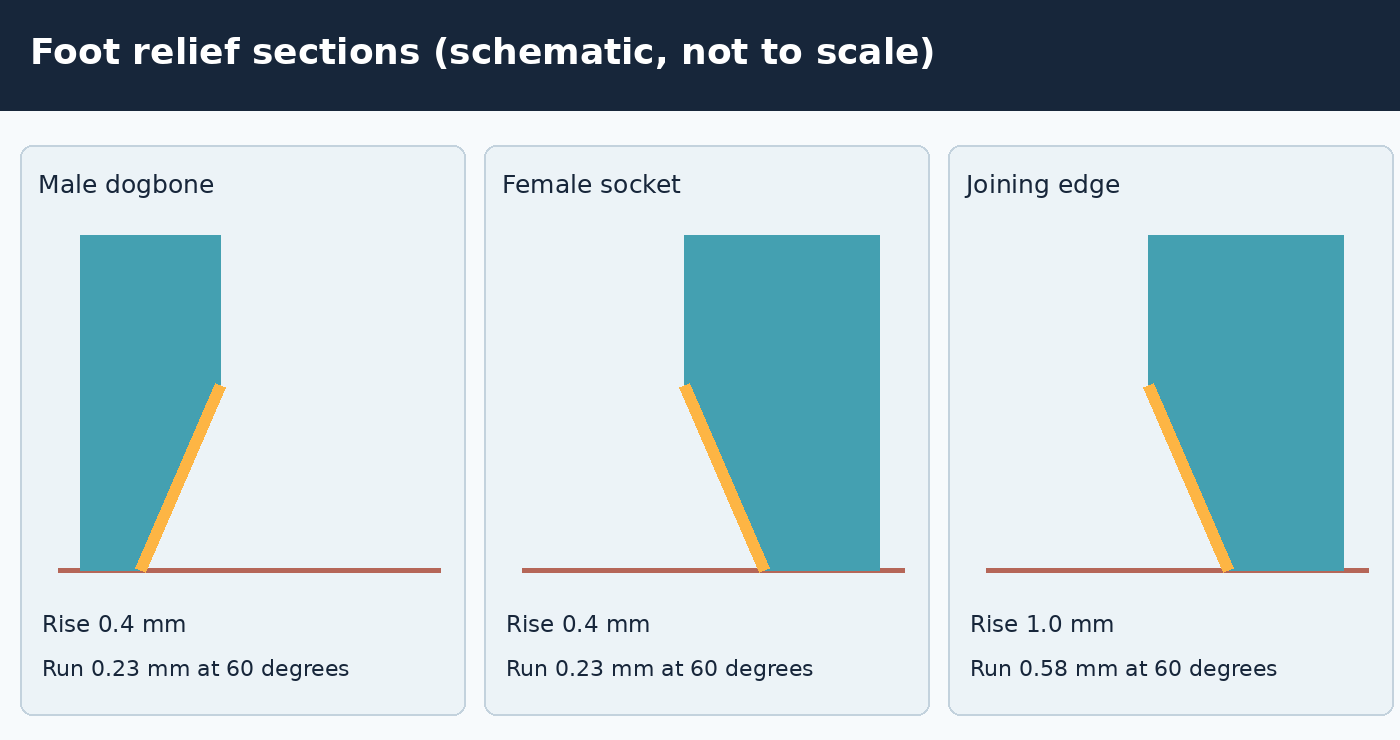
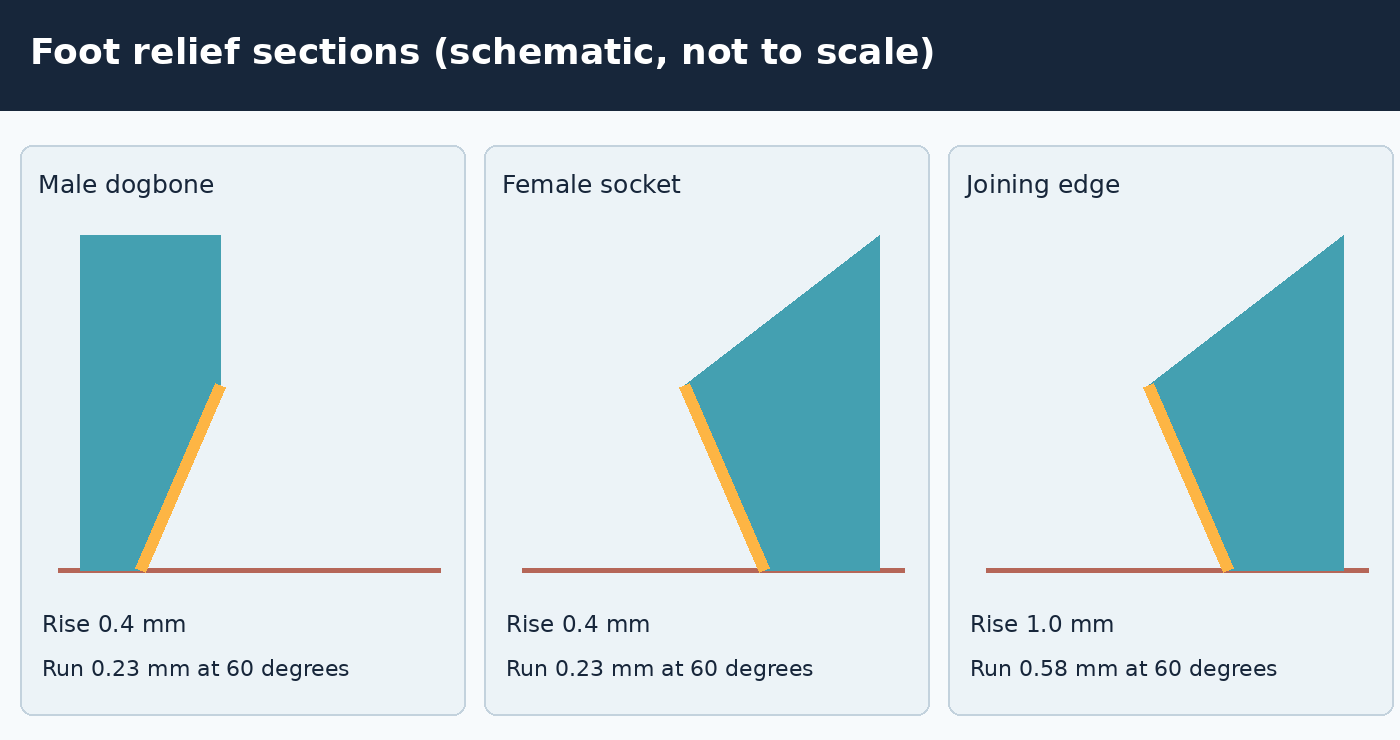
Docs: adopt paired Rocket Stove-style CAD gallery
Replace numbered screenshot cards with semantic OpenSCAD images in technical Markdown tables; remove misleading exterior-wall panel and regenerate camera-framed v12 inspection views. Preserve v12 SCAD and preset geometry.

Changed region(s): [[0.7986, 0.3108, 0.9521, 0.5284], [0.4914, 0.3108, 0.645, 0.5284]]

diff --git a/scripts/chamfer_docs.py b/scripts/chamfer_docs.py
@@ -1,7 +1,7 @@
-"""Generate v12 build-plate-interface reference screenshots from the real SCAD geometry.
+"""Render magnified OpenSCAD geometry close-ups for the v12 README.
 
-These are isolated CAD coupons, not photographs and not full-size trays.
-The model's dogbone, socket, and chamfer modules are used unchanged.
+Images contain geometry only; Markdown tables supply titles and parameters.
+CAD coupons shorten surrounding stock but reuse production connector/socket cutters.
 """
 from __future__ import annotations
 
@@ -19,7 +19,7 @@ from scripts.organizer_cli import release_paths
 
 MARKER = "// ----------- Output and non-fatal invalid selection handling -----------"
 APPEND = r"""
-// Only surrounding tray stock is shortened into inspection coupons.
+// Trim stock only. Real socket, dogbone and joining-edge relief modules are reused.
 module inspection_join_cut() {
     rotate([0,0,90]) rotate([90,0,0])
       linear_extrude(height=40,center=true)
@@ -27,115 +27,97 @@ module inspection_join_cut() {
 }
 module inspection_socket_coupon() {
     difference() {
-        translate([-10,0,0]) cube([20,19,10]);
-        socket_with_entry_chamfer_3d();
-        inspection_join_cut();
+        color([0.28,0.64,0.68]) translate([-10,0,0]) cube([20,19,10]);
+        color([0.96,0.72,0.12]) socket_with_entry_chamfer_3d();
+        color([0.96,0.72,0.12]) inspection_join_cut();
     }
 }
 module inspection_socket_section() {
     difference() {
         inspection_socket_coupon();
-        translate([-20,-10,-1]) cube([20,40,30]);
+        color([0.96,0.72,0.12]) translate([-20,-10,-1]) cube([20,40,30]);
     }
 }
 module inspection_join_edge() {
     difference() {
-        translate([-12,0,0]) cube([24,9,7]);
-        inspection_join_cut();
+        color([0.28,0.64,0.68]) translate([-12,0,0]) cube([24,9,7]);
+        color([0.96,0.72,0.12]) inspection_join_cut();
     }
 }
-module inspection_outer_wall() {
-    rotate([90,0,0]) linear_extrude(height=19,center=true)
-      polygon([[0,0],[9,0],[9,16],[-8,16],[-8,CHAMFER_Z],[-CHAMFER_X,CHAMFER_Z]]);
-}
-Inspection_view="male";
-if(Inspection_view=="male") color([0.9,0.62,0.25]) loose_dogbone();
-else if(Inspection_view=="male_head")
-    translate([0,-HEAD_IN,0]) color([0.9,0.62,0.25]) loose_dogbone();
-else if(Inspection_view=="male_web") color([0.9,0.62,0.25]) loose_dogbone();
-else if(Inspection_view=="socket_bottom")
-    rotate([180,0,0]) color([0.30,0.68,0.83]) inspection_socket_coupon();
-else if(Inspection_view=="socket_lobe")
-    rotate([180,0,0]) translate([0,-HEAD_IN,0])
-        color([0.30,0.68,0.83]) inspection_socket_coupon();
-else if(Inspection_view=="socket_section")
-    rotate([180,0,0]) color([0.30,0.68,0.83]) inspection_socket_section();
-else if(Inspection_view=="join_edge") color([0.30,0.68,0.83]) inspection_join_edge();
-else if(Inspection_view=="outer_wall") color([0.30,0.68,0.83]) inspection_outer_wall();
+// Preview palette: teal for stock / loose connector and gold for volumes
+// removed by the socket or joining-edge chamfer. STL color is unaffected.
+Inspection_view="connector-foot";
+if(Inspection_view=="connector-foot") color([0.28,0.64,0.68]) loose_dogbone();
+else if(Inspection_view=="connector-lobe")
+    translate([0,-HEAD_IN,0]) color([0.28,0.64,0.68]) loose_dogbone();
+else if(Inspection_view=="connector-web") color([0.28,0.64,0.68]) loose_dogbone();
+else if(Inspection_view=="socket-underside")
+    rotate([180,0,0]) inspection_socket_coupon();
+else if(Inspection_view=="socket-lips")
+    rotate([180,0,0]) translate([0,-HEAD_IN,0]) inspection_socket_coupon();
+else if(Inspection_view=="socket-section")
+    rotate([180,0,0]) inspection_socket_section();
+else if(Inspection_view=="joining-edge") inspection_join_edge();
 """
 
-# n, OpenSCAD inspection selector, technical title, description, camera X/Y/Z/distance
+# Stable semantic filenames, not serial numbers. Focal points in CAD mm.
+# For the female pockets the inspection coupon is flipped to expose the
+# underside, hence the negative focal Y/Z coordinates.
 VIEWS = [
-    ("01","male","Loose connector: complete foot","Circular lobes and straight web",(65,0,35,90)),
-    ("02","male_head","Loose connector: round head","Chamfer follows the circular lobe",(40,0,45,90)),
-    ("03","male_web","Loose connector: center web","Chamfer on both narrow straight sides",(20,0,50,90)),
-    ("04","socket_bottom","Socket: underside entrance","Bevel begins at the build-plate face",(30,0,30,90)),
-    ("05","socket_lobe","Socket: lobe and mouth lips","Relief around the curved end and short edges",(12,0,0,90)),
-    ("06","socket_section","Socket: wall section","Entry chamfer below unchanged fitting walls",(25,0,35,90)),
-    ("07","join_edge","Tray: joining edge","Continuous relief across connector mouths",(65,0,35,90)),
-    ("08","outer_wall","Tray: outside lower wall","Drawer floor radius clearance, not elephant foot",(65,0,35,90)),
+    ("connector-foot",    (0,  0,  3, 58,  0, 32, 35)),
+    ("connector-lobe",    (0,  0,  1, 70,  0, 25, 35)),
+    ("connector-web",     (0,  0,  1, 80,  0, 50, 42)),
+    ("socket-underside",  (0, -9, -3, 65,  0, 25, 95)),
+    ("socket-lips",       (0, -5, -1, 55,  0,  0, 75)),
+    ("socket-section",    (0, -7, -3, 62,  0,210, 90)),
+    ("joining-edge",     (0,  4,  2, 62,  0, 42, 85)),
 ]
 
 
-def font(size:int,bold:bool=False):
-    family="DejaVuSans-Bold.ttf" if bold else "DejaVuSans.ttf"
-    return ImageFont.truetype("/usr/share/fonts/truetype/dejavu/"+family,size)
-
-
-def run_preview(source:Path,name:str,camera:tuple[int,int,int,int],output:Path):
-    cmd=["openscad","--hardwarnings","--imgsize=1280,850",
-         "--colorscheme=Tomorrow",
-         "--camera=0,0,0,"+",".join(map(str,camera)),
-         "--autocenter","--viewall","-D","Render_facets=128",
-         "-D",'Inspection_view="'+name+'"',
-         "-o",str(output),str(source)]
+def run_preview(source: Path, name: str, camera: tuple[int, ...], destination: Path) -> None:
+    command = [
+        "openscad", "--hardwarnings", "--imgsize=2200,1500",
+        "--colorscheme=Tomorrow", "--camera="+",".join(map(str,camera)),
+        "-D", "Render_facets=128", "-D", 'Inspection_view="'+name+'"',
+        "-o", str(destination), str(source),
+    ]
     if shutil.which("xvfb-run"):
-        cmd=["xvfb-run","-a",*cmd]
-    proc=subprocess.run(cmd,text=True,capture_output=True,timeout=150)
-    if proc.returncode or not output.exists() or output.stat().st_size<2000:
-        raise RuntimeError(f"OpenSCAD inspection {name} failed:\n{proc.stdout}\n{proc.stderr}")
+        command = ["xvfb-run", "-a", *command]
+    result = subprocess.run(command,capture_output=True,text=True,timeout=150)
+    if result.returncode or "ERROR:" in result.stderr or not destination.is_file():
+        raise RuntimeError(f"OpenSCAD screenshot {name} failed: {result.stdout}\n{result.stderr}")
 
 
-def crop_model(source:Path):
-    img=Image.open(source).convert("RGB")
-    a=np.asarray(img,dtype=np.int16)
-    mask=(a.max(2)-a.min(2)>24)&(a.min(2)<215)
-    yy,xx=np.nonzero(mask)
-    if len(xx)<150:
-        raise RuntimeError(f"Missing CAD geometry: {source.name}")
+def trim_preview(path: Path, *, closeup: bool = False) -> Image.Image:
+    image = Image.open(path).convert("RGB")
+    rgb = np.asarray(image,dtype=np.int16)
+    # Preserve the actual OpenSCAD preview colors and shaded cut surfaces.
+    # This mask selects colored geometry, not pale-gray background pixels.
+    visible = ((rgb.max(axis=2)-rgb.min(axis=2))>20) & (rgb.min(axis=2)<225)
+    yy,xx=np.nonzero(visible)
+    if len(xx)<5000:
+        raise RuntimeError(f"No usable CAD geometry in screenshot {path.name}")
     x0,x1=int(xx.min()),int(xx.max())
     y0,y1=int(yy.min()),int(yy.max())
-    mx=max(15,int((x1-x0)*.05))
-    my=max(15,int((y1-y0)*.05))
-    return img.crop((max(0,x0-mx),max(0,y0-my),
-                     min(img.width,x1+mx+1),min(img.height,y1+my+1)))
+    width,height=image.size
+    if not closeup and (x0<8 or x1>width-9 or y0<8 or y1>height-9):
+        raise RuntimeError(f"Camera cuts off geometry in {path.name}: {(x0,y0,x1,y1)}")
+    if x1-x0<width*0.24 or y1-y0<height*0.20:
+        raise RuntimeError(f"Camera too distant in {path.name}: {(x0,y0,x1,y1)}")
+    margin=max(30,int(max(x1-x0,y1-y0)*.04))
+    rect=(max(0,x0-margin),max(0,y0-margin),
+          min(width,x1+margin+1),min(height,y1+margin+1))
+    return image.crop(rect)
 
 
-def inspection_card(number:str,title:str,description:str,render:Path,metric:str):
-    width,height=1400,975
-    bg=Image.new("RGB",(width,height),(248,250,252))
-    draw=ImageDraw.Draw(bg)
-    navy=(23,38,58)
-    draw.rectangle((0,0,width,135),fill=navy)
-    draw.rounded_rectangle((27,27,104,104),radius=13,fill=(253,181,68))
-    draw.text((45,49),number,font=font(25),fill=navy)
-    draw.text((126,18),title,font=font(36,True),fill="white")
-    draw.text((126,82),description,font=font(24),fill=(186,218,228))
-    draw.rectangle((30,151,width-30,846),fill=(247,247,247),outline=(205,218,227),width=2)
-    im=crop_model(render)
-    scale=min(1290/im.width,675/im.height)
-    im=im.resize((round(im.width*scale),round(im.height*scale)),Image.Resampling.LANCZOS)
-    bg.paste(im,((width-im.width)//2,159+(680-im.height)//2))
-    draw.rectangle((0,865,width,height),fill=(236,243,247))
-    draw.text((35,886),metric,font=font(24),fill=(0,104,117))
-    draw.text((35,934),"OpenSCAD v12  |  dimensions in mm  |  CAD coupon, not a printed sample",
-              font=font(21),fill=(64,78,86))
-    return bg
+def font(size:int,bold:bool=False):
+    name="DejaVuSans-Bold.ttf" if bold else "DejaVuSans.ttf"
+    return ImageFont.truetype("/usr/share/fonts/truetype/dejavu/"+name,size)
 
 
-def schematic(output:Path):
-    im=Image.new("RGB",(1400,740),(247,250,252))
-    d=ImageDraw.Draw(im)
+def schematic(output: Path) -> None:
+    image=Image.new("RGB",(1400,740),(247,250,252))
+    d=ImageDraw.Draw(image)
     d.rectangle((0,0,1400,110),fill=(23,38,58))
     d.text((30,30),"Foot relief sections (schematic, not to scale)",font=font(36,True),fill="white")
     specs=[("Male dogbone",.4,True),("Female socket",.4,False),("Joining edge",1.0,False)]
@@ -150,47 +132,40 @@ def schematic(output:Path):
             d.polygon([(o-140,y),(o-80,y),(o,y-185),(o,235),(o-140,235)],fill=(68,160,177))
             a=(o-80,y)
         else:
-            d.polygon([(o+80,y),(o+195,y),(o+195,235),(o,235),(o,y-185)],fill=(68,160,177))
+            d.polygon([(o+80,y),(o+195,y),(o+195,235),(o,y-185)],fill=(68,160,177))
             a=(o+80,y)
         d.line((a,(o,y-185)),fill=(253,181,68),width=11)
         d.text((x+22,610),f"Rise {rise:.1f} mm",font=font(23),fill=(23,38,58))
         d.text((x+22,655),f"Run {rise/math.tan(math.radians(60)):.2f} mm at 60 degrees",
                font=font(22),fill=(23,38,58))
-    im.save(output,optimize=True)
+    image.save(output,optimize=True)
 
 
-def main():
+def main() -> None:
     parser=argparse.ArgumentParser(description=__doc__)
     parser.add_argument("--output",type=Path,default=Path("docs/images"))
     args=parser.parse_args()
     source,_=release_paths()
     model=source.read_text()
     if MARKER not in model:
-        raise RuntimeError("Cannot locate the release's OpenSCAD output marker")
-    args.output.mkdir(parents=True,exist_ok=True)
-    with tempfile.TemporaryDirectory(prefix="drawer-inspection-") as temp:
+        raise RuntimeError("OpenSCAD output marker not present")
+    out=args.output/"cad"
+    out.mkdir(parents=True,exist_ok=True)
+    with tempfile.TemporaryDirectory(prefix="drawer-cad-inspect-") as temp:
         fixture=Path(temp)/"inspection.scad"
         fixture.write_text(model.split(MARKER,1)[0]+"\n"+APPEND)
-        pictures=[]
-        for num,view,title,description,camera in VIEWS:
-            raw=Path(temp)/(view+".png")
-            run_preview(fixture,view,camera,raw)
-            metric=("1.0 mm join-edge relief" if view=="join_edge"
-                    else "10.0 mm outer wall clearance rise" if view=="outer_wall"
-                    else "0.4 mm socket/connector foot rise")
-            dst=args.output/("inspection-"+num+".png")
-            inspection_card(num,title,description,raw,metric).save(dst,optimize=True)
-            pictures.append(dst)
-            print("Saved",dst)
-        sheet=Image.new("RGB",(1420,2040),(233,240,245))
-        d=ImageDraw.Draw(sheet)
-        d.rectangle((0,0,1420,73),fill=(23,38,58))
-        d.text((22,18),"v12: build-plate interfaces (8 CAD views)",font=font(33,True),fill="white")
-        for i,path in enumerate(pictures):
-            im=Image.open(path).convert("RGB").resize((700,488),Image.Resampling.LANCZOS)
-            sheet.paste(im,(10+(i%2)*705,76+(i//2)*490))
-        sheet.save(args.output/"inspection-contact-sheet.png",optimize=True)
-        schematic(args.output/"inspection-section-dimensions.png")
+        for name,camera in VIEWS:
+            raw=Path(temp)/(name+".png")
+            run_preview(fixture,name,camera,raw)
+            destination=out/(name+".png")
+            trim_preview(raw,closeup=name in {'connector-lobe','connector-web','socket-lips'}).save(destination,optimize=True)
+            print("Wrote raw OpenSCAD CAD view",destination)
+    # Old numbered, upscaled image cards misrepresented the zoom level and
+    # exterior wall. They are intentionally removed rather than retained.
+    for old in args.output.glob("inspection-??.png"):
+        old.unlink()
+    (args.output/"inspection-contact-sheet.png").unlink(missing_ok=True)
+    schematic(args.output/"inspection-section-dimensions.png")
 
 
 if __name__=="__main__":

diff --git a/README.md b/README.md
@@ -39,24 +39,41 @@ The 0.4 mm modeled connector foot relief and the 1.0 mm joining-edge relief are 
 
 At the default preset, nominal floor width after clearance is 189 mm, and usable drawer length before tray-edge wall/fillet losses is 474 mm. Logical cell pitch is 63 × 79 mm. Actual clear floor area is reduced by the walls and circular bottom fillets.
 
-## Build-plate contact geometry — magnified CAD screenshots
+## OpenSCAD gallery — build-plate contact geometry
 
-The eight screenshots below are generated from the v12 OpenSCAD geometry by [the inspection generator](scripts/chamfer_docs.py). Only the *surrounding material* is shortened to expose each interface; the actual connector/socket and chamfer calculations are reused. Views 04–06 show underside pockets with the face oriented toward the camera. Images are CAD previews, not photos or slicer toolpaths.
+The following views use the **v12 model**, with surrounding stock shortened to expose local geometry. The images are **OpenSCAD F5 CAD previews**, not photographs, F6 mesh screenshots, or slicer layer previews. The inspection preview uses teal for solid material and gold for subtractive socket/chamfer surfaces; STL exports have no such colors. The model and Customizer dimensions are unchanged by the inspection views.
 
-[Open the eight-view contact sheet](docs/images/inspection-contact-sheet.png) · [Cross-section dimensions (schematic)](docs/images/inspection-section-dimensions.png)
+Each image has a stable descriptive filename, without a sequence number. The captions record the setting or physical feature not apparent from the image.
 
-| Contact geometry | Close-up |
+### Loose connector — first-layer perimeter
+
+| Complete loose dogbone | Circular lobe — close-up |
 | --- | --- |
-| **01. Loose connector — entire print foot**: round lobes and straight center web | ![Connector print-foot overview](docs/images/inspection-01.png) |
-| **02. Loose connector — circular lobe**: 0.4 mm chamfer around round head | ![Connector lobe bottom chamfer](docs/images/inspection-02.png) |
-| **03. Loose connector — straight web**: bottom-only relief along both narrow sides | ![Connector web base chamfer](docs/images/inspection-03.png) |
-| **04. Socket — underside opening**: the flared entry begins at Z=0 | ![Underside female connector socket](docs/images/inspection-04.png) |
-| **05. Socket — round lobe and short mouth lips**: 0.4 mm entry relief plus adjoining tray-edge cut | ![Connector socket lobe and lips](docs/images/inspection-05.png) |
-| **06. Socket — half-wall section**: the entry changes, but the blind roof and upper fitting walls do not | ![Socket wall section](docs/images/inspection-06.png) |
-| **07. Tray joining edge**: 1 mm rise; continuous across socket mouths | ![Tray joining-edge foot relief](docs/images/inspection-07.png) |
-| **08. Exterior bottom sidewall**: 10 mm drawer-floor clearance slope; not the connector elephant-foot feature | ![Outer tray wall clearance slope](docs/images/inspection-08.png) |
+| ![Loose connector: both lobes and the straight web at the build plate](docs/images/cad/connector-foot.png) | ![Loose connector: first-layer chamfer around the round head](docs/images/cad/connector-lobe.png) |
+| `Connector_elephant_foot_mm=0.4`; chamfer follows both lobes and the center web | 0.4 mm vertical rise, approximately 0.23 mm horizontal run at 60° |
 
-The rise and run for the modeled foot relief are related by `horizontal_run = vertical_rise / tan(Print_overhang_angle_deg)`. Connector relief can be set to zero independently of the joining-edge relief. When necessary the connector chamfer is limited to retain stock around the dogbone web and the protected blind socket roof; the OpenSCAD echo reports its effective height and run.
+| Straight web — low-angle view | Female socket — underside overview |
+| --- | --- |
+| ![Loose connector straight web and low first-layer taper](docs/images/cad/connector-web.png) | ![Female socket underside entry with connecting web opening](docs/images/cad/socket-underside.png) |
+| The web returns to full nominal width above the first-layer bevel | Pocket opening at the build-plate plane, `Z=0`; the blind roof is retained |
+
+### Female socket — entrance and roof
+
+| Round lobe and narrow mouth lips | Section through the socket wall |
+| --- | --- |
+| ![Female socket curved end and short joining-edge mouth lips](docs/images/cad/socket-lips.png) | ![Female socket cutaway exposing its blind pocket and first-layer entrance](docs/images/cad/socket-section.png) |
+| 0.4 mm entry bevel on the socket, with the separate 1 mm joining-edge relief continuing through the short lips | Pocket is blind; full-size fitting profile remains above the entry bevel |
+
+### Tray-to-tray joining edge
+
+| Joining-edge print foot | Section dimensions — schematic |
+| --- | --- |
+| ![Tray joining-edge bottom relief in OpenSCAD](docs/images/cad/joining-edge.png) | ![Comparison of connector foot, socket entry and tray joining-edge cross-sections](docs/images/inspection-section-dimensions.png) |
+| `Join_edge_elephant_foot_mm=1.0`; ~0.58 mm horizontal run at 60° | Connector/socket rise: 0.4 mm. Joining-edge rise: 1.0 mm. Schematic not to scale |
+
+The exterior lower sidewall is **not shown as an elephant-foot close-up**: its much larger 10 mm rise is a drawer-floor clearance slope, a separate geometric feature. The previous image was a misleading construction coupon, not the actual exterior tray surface.
+
+For either modeled chamfer, `horizontal_run = vertical_rise / tan(Print_overhang_angle_deg)`. Set `Connector_elephant_foot_mm=0` to disable only the connector/socket foot relief; the independent joining-edge setting remains. Socket relief may be limited internally to preserve stock below the blind roof.
 
 ## Geometry and fit rules
 
@@ -79,7 +96,7 @@ python -m scripts.readme_gallery --input build/previews --output docs/images
 python -m scripts.chamfer_docs --output docs/images
 ```
 
-`make check` runs the pytest geometry tests and exports the tray STLs plus standard previews. The inspection generator creates `docs/images/inspection-01.png` through `inspection-08.png`, the contact sheet, and a separate schematic. The main-branch GitHub Actions workflow runs these checks, uploads artifacts, and commits regenerated reference images if they changed.
+`make check` runs the pytest geometry tests and exports the tray STLs plus standard previews. The inspection generator creates seven unnumbered OpenSCAD geometry previews in `docs/images/cad/` and a separate section schematic at `docs/images/inspection-section-dimensions.png`. The main-branch GitHub Actions workflow runs these checks, uploads artifacts, and commits regenerated reference images if they changed.
 
 Tests cover OpenSCAD F5/F6 output, watertight individual tray/connector meshes, multiple inner radii, connector clearance envelopes, tray selections, cutout geometry and parameter bounds. Passing these tests does **not** establish actual first-layer printer behavior or connector fit; those need printed samples.
 
